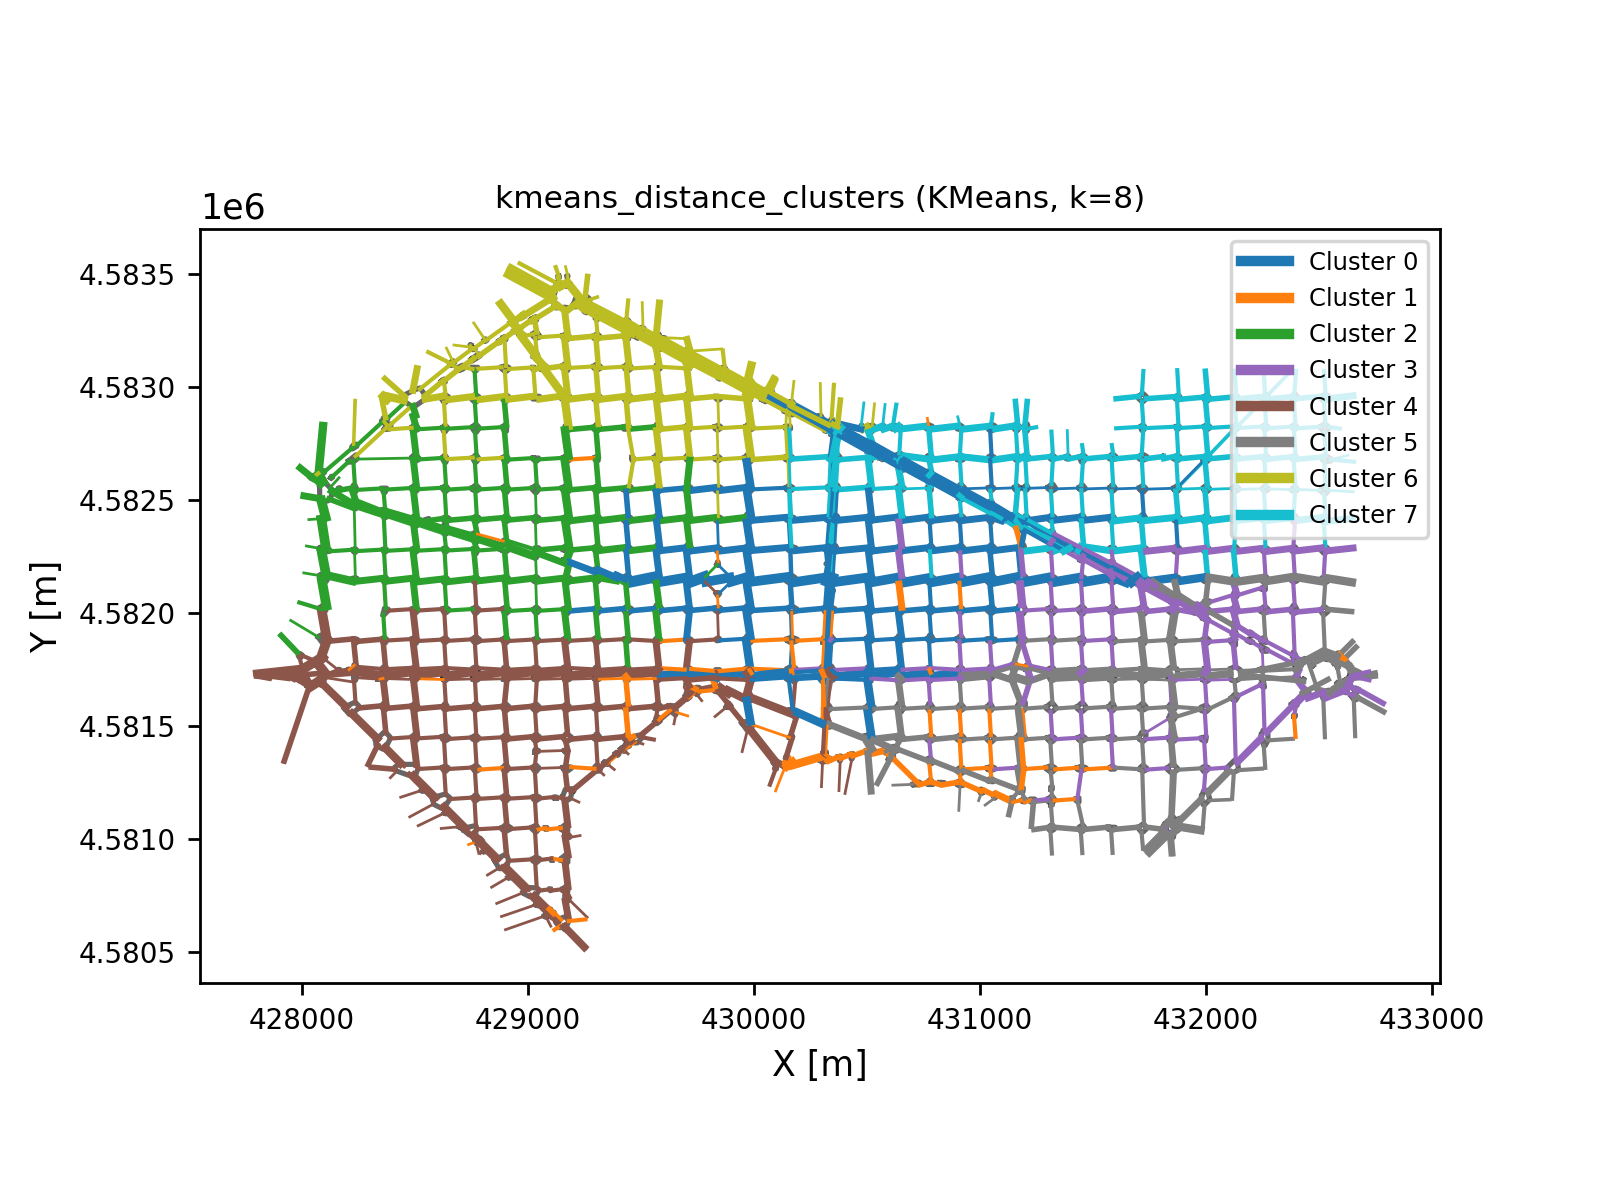
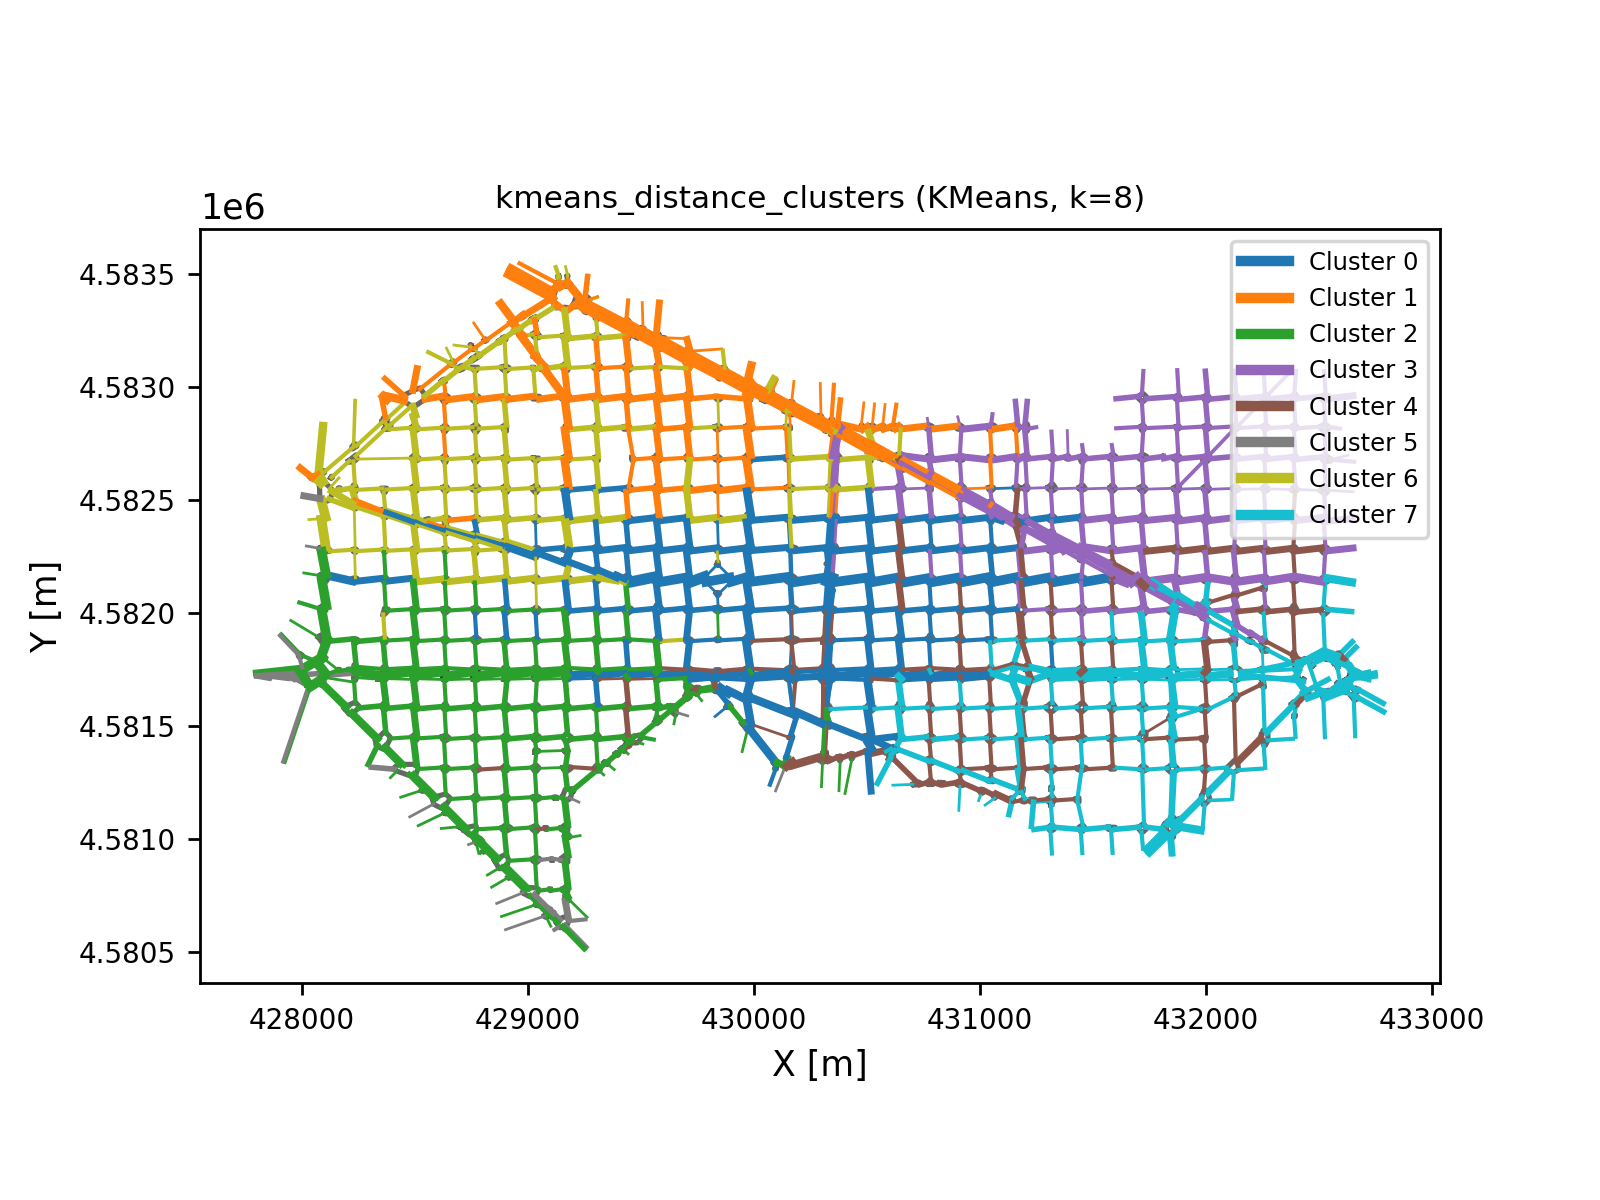
changed n_components= from 3 to 8
profile_components(rowwise_zscore(filled), n_components=8),

the graph is a bit worse but at list it takes into account more partterns

Changed region(s): [[0.1562, 0.2158, 0.875, 0.8017], [0.5625, 0.4625, 0.5938, 0.4933]]

diff --git a/main.py b/main.py
@@ -608,7 +608,7 @@ def temporal_cluster_features(profile, peak_mode, spatial_weight=2): #trial of 0
         filled.mean(axis=1),
         filled.std(axis=1),
         peak_time,
-        profile_components(rowwise_zscore(filled), n_components=3),# IMPORTANT TO CHANGE AS IT ONLY TAKES INTO ACCOUNT THE THREE VALUESSSSSSSS
+        profile_components(rowwise_zscore(filled), n_components=6),# IMPORTANT TO CHANGE AS IT ONLY TAKES INTO ACCOUNT THE THREE VALUESSSSSSSS
     ])
     spatial_features = np.column_stack([links["c_x"].to_numpy(), links["c_y"].to_numpy()])
     return np.hstack([
@@ -646,6 +646,7 @@ def build_cluster_features(feature_type):
             out=np.full(vdist.shape, np.nan, dtype=float),
             where=vtime != 0,
         )
+        #speed_profile = np.log1p(mean_over_sessions(speed)).T
         speed_profile = mean_over_sessions(speed).T
         return temporal_cluster_features(speed_profile, peak_mode="min")
 
